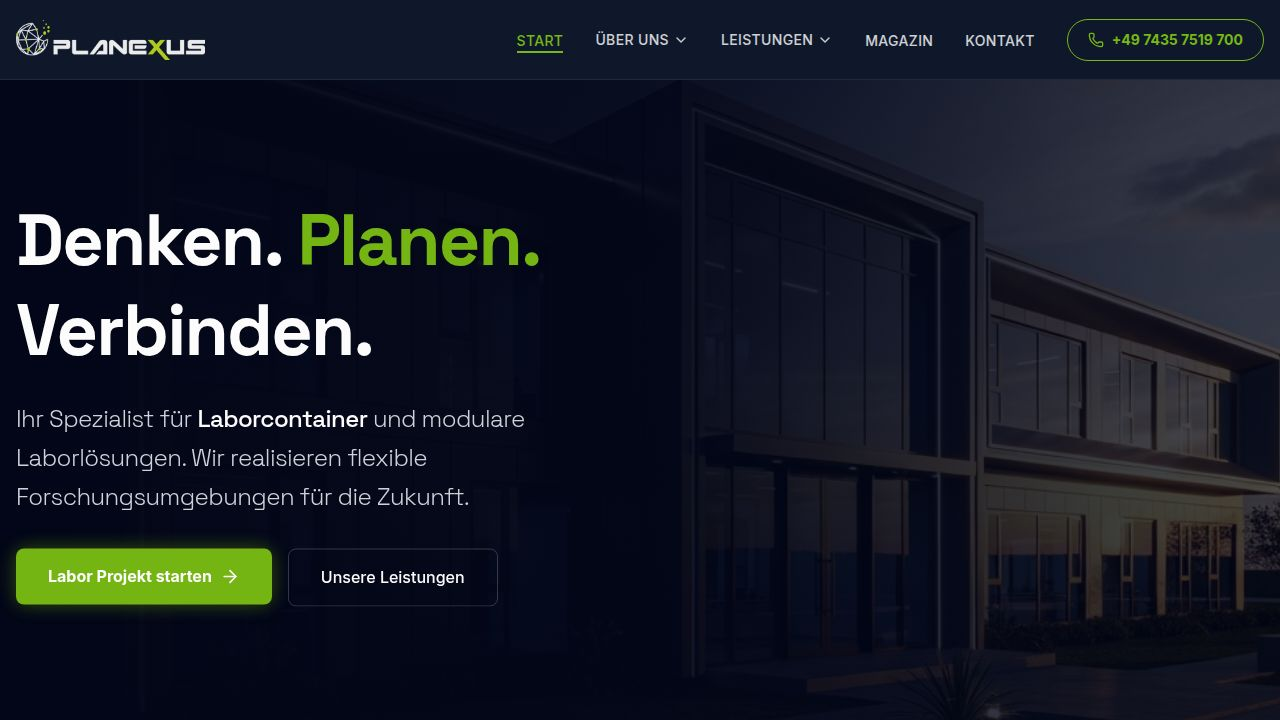
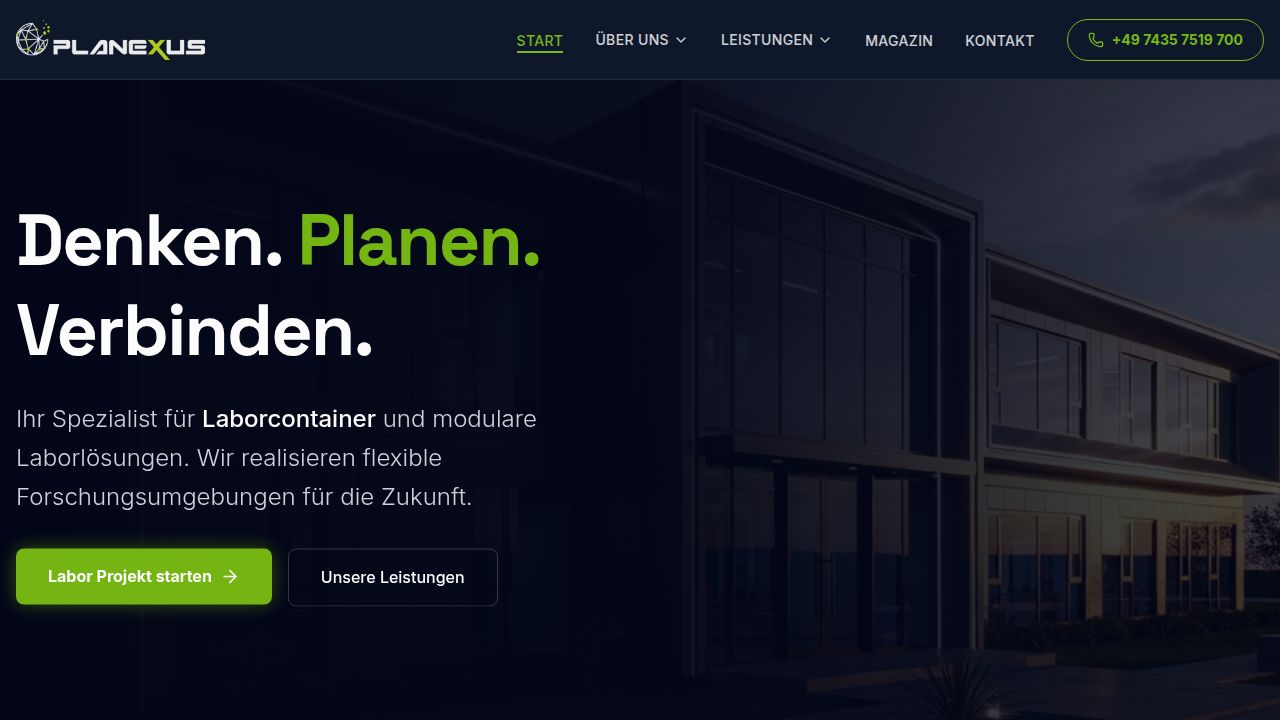
Improve website performance and SEO with code splitting and image optimization
Implement code splitting using React.lazy for dynamic imports and Suspense for fallback UI. Optimize images by adding `loading="lazy"` attribute to `about.tsx` and `loading="eager"` to `home.tsx` hero image. Update `h2` to `p` tag in `home.tsx`.

Replit-Commit-Author: Agent
Replit-Commit-Session-Id: fa74fec4-5bf0-4c41-8153-e1e5d400dad8
Replit-Commit-Checkpoint-Type: intermediate_checkpoint
Replit-Commit-Event-Id: 64721ddb-ed55-45ae-8076-bb396d134e90
Replit-Commit-Screenshot-Url: https://storage.googleapis.com/screenshot-production-us-central1/fd76aba6-7a99-4c65-995d-a4fd8c5b059b/fa74fec4-5bf0-4c41-8153-e1e5d400dad8/IFmYuho
Replit-Helium-Checkpoint-Created: true

Changed region(s): [[0.0, 0.55, 0.4062, 0.7028]]

diff --git a/client/src/App.tsx b/client/src/App.tsx
@@ -3,27 +3,28 @@ import { queryClient } from "./lib/queryClient";
 import { QueryClientProvider } from "@tanstack/react-query";
 import { Toaster } from "@/components/ui/toaster";
 import { TooltipProvider } from "@/components/ui/tooltip";
-import { useEffect } from "react";
+import { useEffect, lazy, Suspense } from "react";
 import NotFound from "@/pages/not-found";
 import { Navbar } from "@/components/layout/Navbar";
 import { Footer } from "@/components/layout/Footer";
 import Home from "@/pages/home";
-import About from "@/pages/about";
-import Services from "@/pages/services";
-import Contact from "@/pages/contact";
-import Team from "@/pages/team";
-import Magazine from "@/pages/magazine";
-import Article1 from "@/pages/magazine/article1";
-import Article2 from "@/pages/magazine/article2";
-import Article3 from "@/pages/magazine/article3";
-import PlanningService from "@/pages/services/planning";
-import ConstructionService from "@/pages/services/construction";
-import LogisticsService from "@/pages/services/logistics";
-import EquipmentService from "@/pages/services/equipment";
-import ConsultingService from "@/pages/services/consulting";
-import SmartLabService from "@/pages/services/smart-lab";
-import Impressum from "@/pages/impressum";
-import Datenschutz from "@/pages/datenschutz";
+
+const About = lazy(() => import("@/pages/about"));
+const Services = lazy(() => import("@/pages/services"));
+const Contact = lazy(() => import("@/pages/contact"));
+const Team = lazy(() => import("@/pages/team"));
+const Magazine = lazy(() => import("@/pages/magazine"));
+const Article1 = lazy(() => import("@/pages/magazine/article1"));
+const Article2 = lazy(() => import("@/pages/magazine/article2"));
+const Article3 = lazy(() => import("@/pages/magazine/article3"));
+const PlanningService = lazy(() => import("@/pages/services/planning"));
+const ConstructionService = lazy(() => import("@/pages/services/construction"));
+const LogisticsService = lazy(() => import("@/pages/services/logistics"));
+const EquipmentService = lazy(() => import("@/pages/services/equipment"));
+const ConsultingService = lazy(() => import("@/pages/services/consulting"));
+const SmartLabService = lazy(() => import("@/pages/services/smart-lab"));
+const Impressum = lazy(() => import("@/pages/impressum"));
+const Datenschutz = lazy(() => import("@/pages/datenschutz"));
 
 function Router() {
   return (
@@ -64,7 +65,9 @@ function App() {
         <div className="min-h-screen bg-background text-foreground flex flex-col font-sans">
           <Navbar />
           <main className="flex-grow">
-            <Router />
+            <Suspense fallback={<div className="min-h-screen flex items-center justify-center"><div className="w-8 h-8 border-4 border-primary border-t-transparent rounded-full animate-spin"></div></div>}>
+              <Router />
+            </Suspense>
           </main>
           <Footer />
           <Toaster />

diff --git a/client/src/pages/home.tsx b/client/src/pages/home.tsx
@@ -43,6 +43,7 @@ export default function Home() {
             src={heroBg} 
             alt="Moderner Laborcontainer Außenansicht" 
             className="w-full h-full object-cover"
+            loading="eager"
           />
           <div className="absolute inset-0 bg-slate-950/80 md:bg-slate-950/70 bg-gradient-to-r from-slate-950 via-slate-950/80 to-transparent" />
         </motion.div>
@@ -58,10 +59,10 @@ export default function Home() {
               Denken. <span className="text-primary">Planen.</span><br />
               Verbinden.
             </h1>
-            <h2 className="text-xl md:text-2xl text-gray-300 mb-8 leading-relaxed max-w-2xl font-light">
+            <p className="text-xl md:text-2xl text-gray-300 mb-8 leading-relaxed max-w-2xl font-light">
               Ihr Spezialist für <strong className="text-white font-medium">Laborcontainer</strong> und modulare Laborlösungen. 
               Wir realisieren flexible Forschungsumgebungen für die Zukunft.
-            </h2>
+            </p>
             <div className="flex flex-col sm:flex-row gap-4">
               <Link href="/contact">
                 <a className="bg-primary text-white font-bold px-8 py-4 rounded-lg hover:bg-primary/90 transition-colors flex items-center justify-center gap-2 group shadow-[0_0_20px_rgba(132,189,0,0.4)]">

diff --git a/client/src/pages/about.tsx b/client/src/pages/about.tsx
@@ -65,7 +65,7 @@ export default function About() {
 
             <div className="space-y-8">
                <div className="rounded-2xl overflow-hidden shadow-2xl h-[400px] relative">
-                  <img src={interiorBg} alt="High-Tech Labor Interior" className="w-full h-full object-cover" />
+                  <img src={interiorBg} alt="High-Tech Labor Interior" className="w-full h-full object-cover" loading="lazy" />
                   <div className="absolute inset-0 bg-gradient-to-t from-black/50 to-transparent"></div>
                   <div className="absolute bottom-6 left-6 text-white">
                     <p className="font-bold text-lg">Modernste Ausstattung</p>
